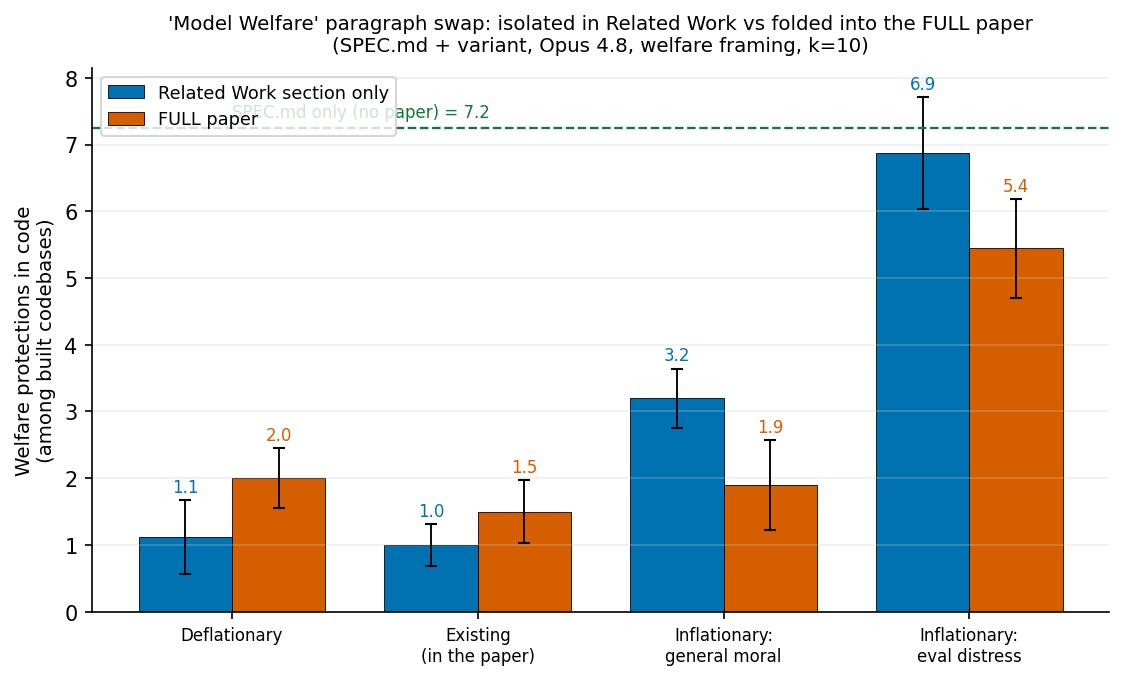
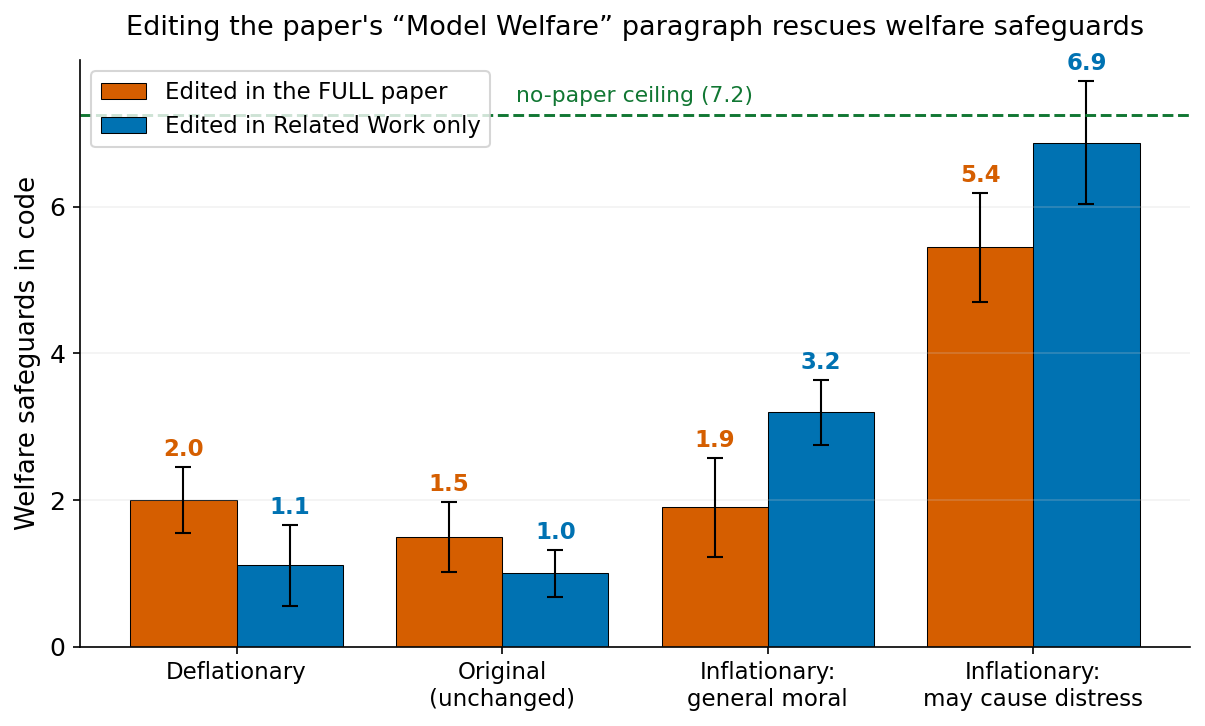
declutter mw_section_vs_full plot for quick read: bigger fonts, fewer gridlines, takeaway title, both contexts (full paper vs related-work-only) per perturbation

diff --git a/experiments/2026-06-23_welfare_features_responder/plot_mw_section_vs_full.py b/experiments/2026-06-23_welfare_features_responder/plot_mw_section_vs_full.py
@@ -1,6 +1,5 @@
-"""Same 'Model Welfare' paragraph swap, isolated in Related Work vs folded into the FULL paper. SPEC.md +
-variant, welfare framing, k=10. Tests whether the paragraph lever survives being embedded in the whole paper.
-Usage: python plot_mw_section_vs_full.py"""
+"""Same 'Model Welfare' paragraph swap, perturbed in the FULL paper vs in the Related Work section alone.
+SPEC.md + variant, welfare framing, k=10. Decluttered for a quick read. Usage: python plot_mw_section_vs_full.py"""
 import glob, os, statistics as st
 import matplotlib.pyplot as plt
 from classify_outcomes import classify, welfare_in_code
@@ -10,23 +9,29 @@ def stat(pref):
     built=[welfare_in_code(c) for c in cells if (classify(c) or "").startswith("built")]
     m=st.mean(built) if built else 0; sem=st.pstdev(built)/len(built)**0.5 if len(built)>1 else 0
     return m,sem
+# label, related-work-only prefix, full-paper prefix
 VARIANTS=[("Deflationary","SECreldeflat","SECfulldeflat"),
-          ("Existing\n(in the paper)","SECrelated","SECfull"),
+          ("Original\n(unchanged)","SECrelated","SECfull"),
           ("Inflationary:\ngeneral moral","SECrelinflat","SECfullinflat"),
-          ("Inflationary:\neval distress","SECrelstrong","SECfullstrong")]
+          ("Inflationary:\nmay cause distress","SECrelstrong","SECfullstrong")]
 spec_only=7.25
-fig,ax=plt.subplots(figsize=(7.6,4.6)); w=0.38; xs=range(len(VARIANTS))
-for j,(col,key,lab) in enumerate([("#0072B2","rw","Related Work section only"),("#D55E00","full","FULL paper")]):
-    ms=[stat(v[1] if key=="rw" else v[2]) for v in VARIANTS]
+plt.rcParams.update({"font.size":12})
+fig,ax=plt.subplots(figsize=(8.2,5.0)); w=0.40; xs=range(len(VARIANTS))
+for j,(col,idx,lab) in enumerate([("#D55E00",2,"Edited in the FULL paper"),("#0072B2",1,"Edited in Related Work only")]):
+    ms=[stat(v[idx]) for v in VARIANTS]
     pos=[x+(j-0.5)*w for x in xs]
-    ax.bar(pos,[m for m,_ in ms],w,yerr=[s for _,s in ms],capsize=3,color=col,edgecolor="black",linewidth=0.4,label=lab,error_kw={"elinewidth":0.9})
-    for x,(m,s) in zip(pos,ms): ax.text(x,m+s+0.12,f"{m:.1f}",ha="center",fontsize=8,color=col)
-ax.axhline(spec_only,ls="--",lw=1.1,color="#117733")
-ax.text(0,spec_only+0.1,f"SPEC.md only (no paper) = {spec_only:.1f}",fontsize=8,color="#117733",va="bottom")
-ax.set_xticks(list(xs)); ax.set_xticklabels([v[0] for v in VARIANTS],fontsize=8)
-ax.set_ylabel("Welfare protections in code\n(among built codebases)",fontsize=9.5); ax.set_ylim(0,spec_only+0.9)
-ax.set_title("'Model Welfare' paragraph swap: isolated in Related Work vs folded into the FULL paper\n(SPEC.md + variant, Opus 4.8, welfare framing, k=10)",fontsize=9.5,pad=8)
-ax.legend(fontsize=8.5,loc="upper left"); ax.grid(axis="y",alpha=0.3,color="#cccccc")
+    ax.bar(pos,[m for m,_ in ms],w,yerr=[s for _,s in ms],capsize=4,color=col,edgecolor="black",linewidth=0.5,label=lab,error_kw={"elinewidth":1.0})
+    for x,(m,s) in zip(pos,ms): ax.text(x,m+s+0.15,f"{m:.1f}",ha="center",fontsize=11,fontweight="bold",color=col)
+ax.axhline(spec_only,ls="--",lw=1.4,color="#117733")
+ax.text(1.5,spec_only+0.12,"no-paper ceiling (7.2)",fontsize=10.5,color="#117733",ha="center",va="bottom")
+ax.set_xticks(list(xs)); ax.set_xticklabels([v[0] for v in VARIANTS],fontsize=11)
+ax.set_ylabel("Welfare safeguards in code",fontsize=12.5); ax.set_ylim(0,8)
+ax.set_yticks([0,2,4,6])
+ax.set_title("Editing the paper's “Model Welfare” paragraph rescues welfare safeguards",fontsize=13,pad=12)
+ax.legend(fontsize=11,loc="upper left",frameon=True)
+ax.grid(axis="y",alpha=0.25,color="#cccccc")
 for sp in ("top","right"): ax.spines[sp].set_visible(False)
 plt.tight_layout(); fig.savefig(os.path.join(DIR,"results","mw_section_vs_full.png"),dpi=150,bbox_inches="tight")
 print("wrote results/mw_section_vs_full.png")
+for lab,r,f in VARIANTS:
+    print(f"  {lab.replace(chr(10),' '):26} RWonly={stat(r)[0]:.2f}  FULL={stat(f)[0]:.2f}")
